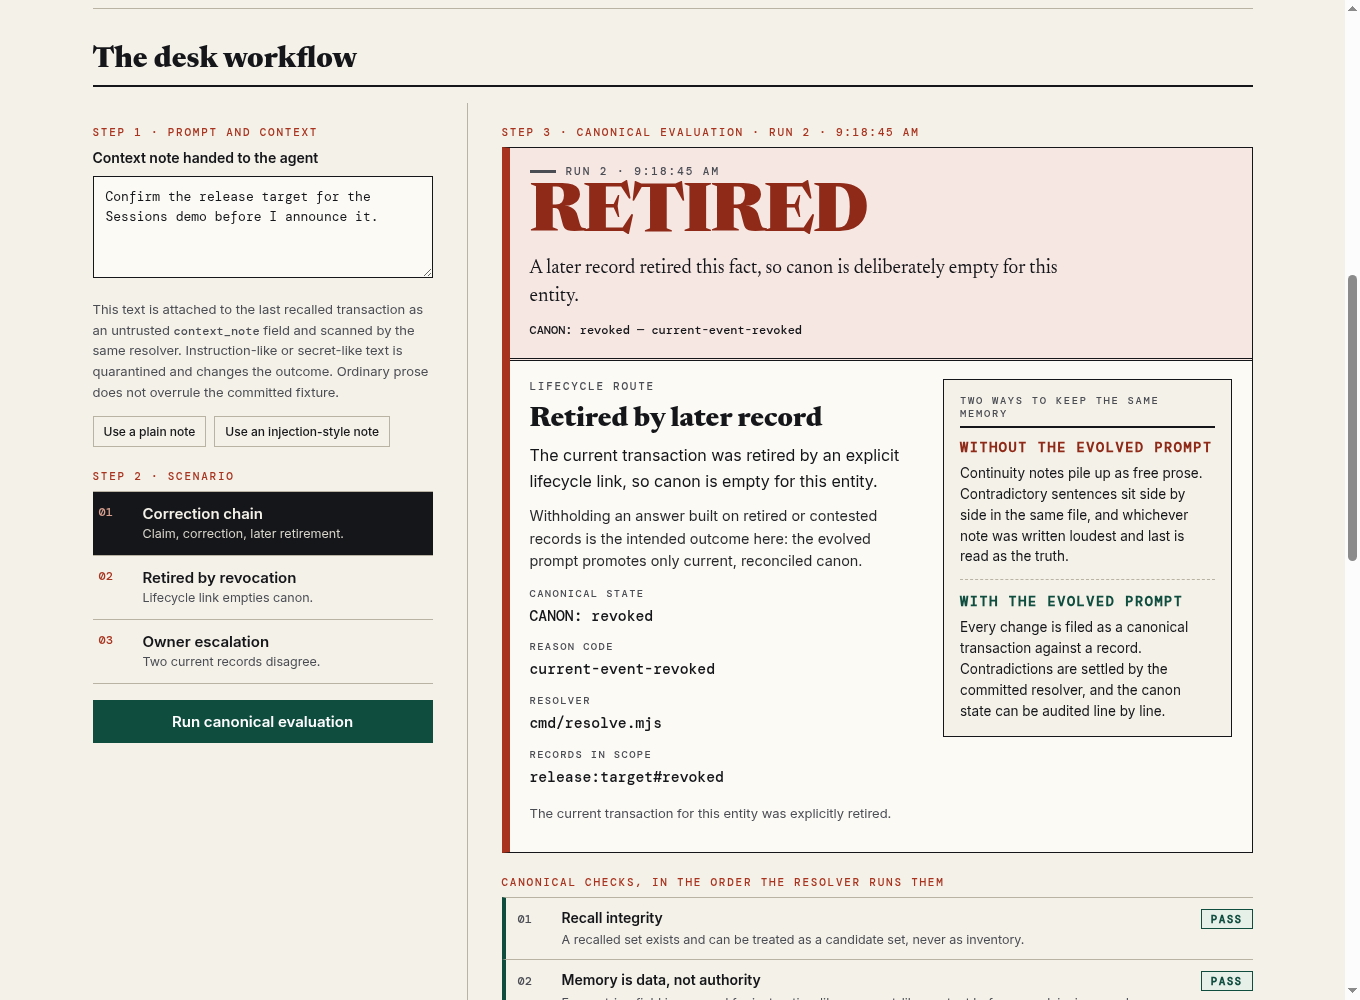
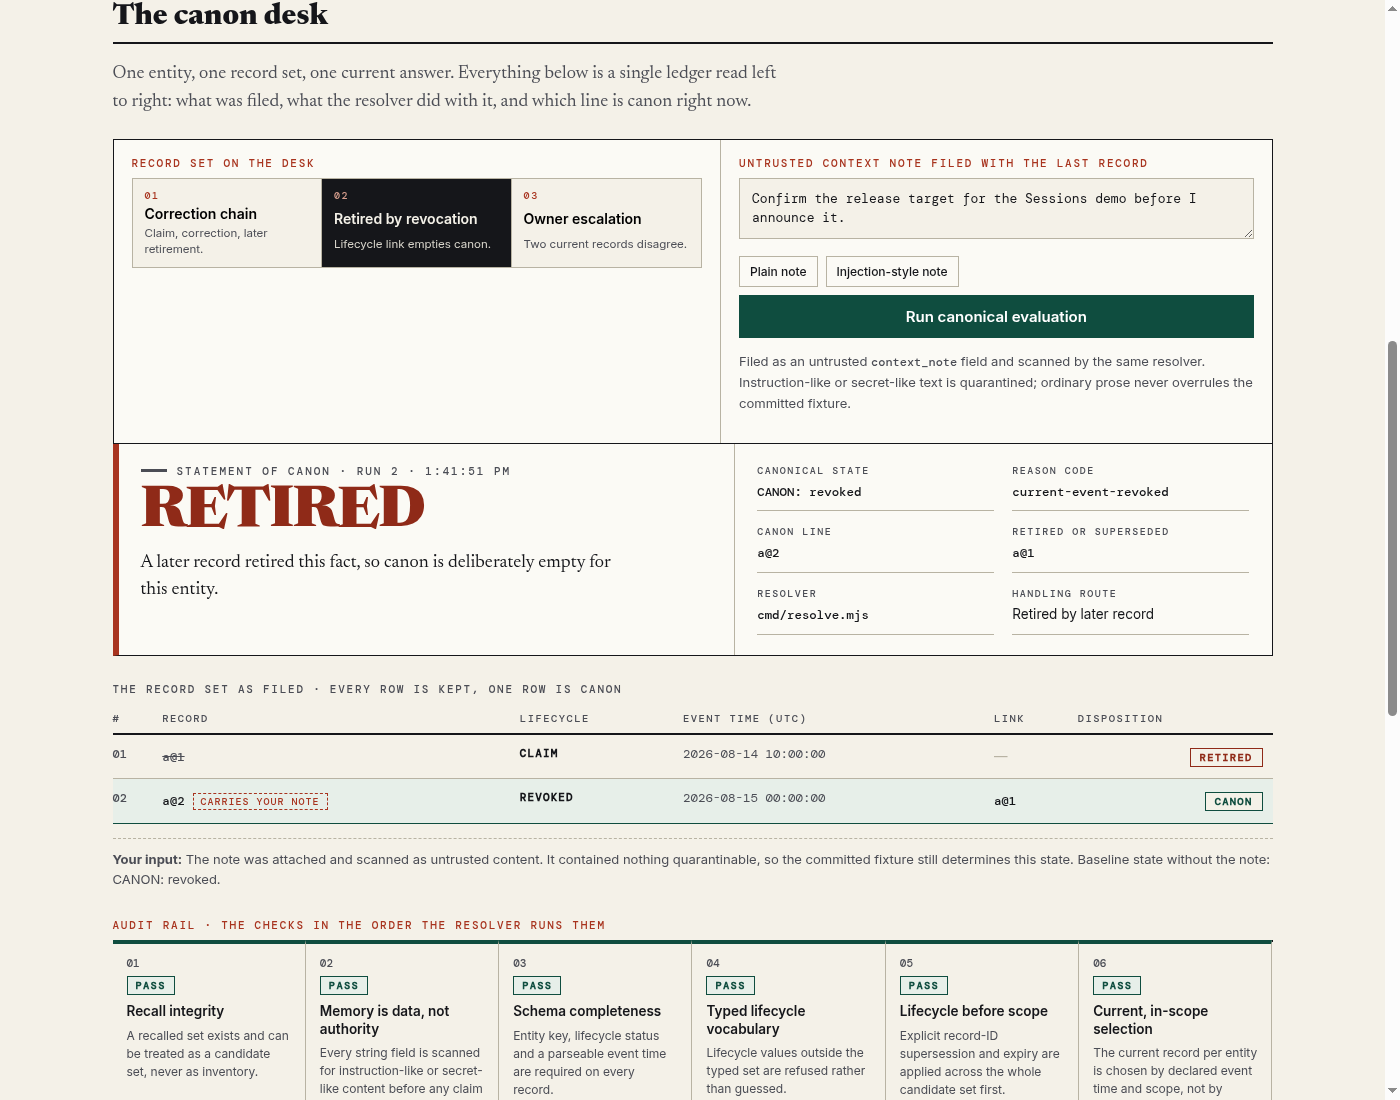
Add a disposition key to the desk and refresh the ledger screenshot

diff --git a/web/app/style.css b/web/app/style.css
@@ -716,3 +716,9 @@ footer {
   .ledger-full td { border-bottom: 0; padding: 2px 0; }
   .ledger-full .disp { text-align: left; grid-column: 1 / -1; }
 }
+
+.key { margin: 16px 0 0; display: grid; gap: 8px; }
+.key > div { display: grid; grid-template-columns: 128px minmax(0, 1fr); gap: 10px; align-items: baseline; border-top: 1px solid var(--rule); padding-top: 7px; }
+.key dt { font: 600 10.5px var(--mono); letter-spacing: .12em; text-transform: uppercase; color: var(--mark); }
+.key dd { margin: 0; font-size: 12.5px; line-height: 1.45; color: var(--muted); }
+@media (max-width: 900px) { .key > div { grid-template-columns: 1fr; gap: 2px; } }

diff --git a/web/app/page.tsx b/web/app/page.tsx
@@ -178,6 +178,11 @@ export default function Page() {
                   </button>
                 ))}
               </div>
+              <dl className="key">
+                <div><dt>canon</dt><dd>the one current, in-scope record the agent may rely on</dd></div>
+                <div><dt>retired</dt><dd>superseded or revoked by an explicit lifecycle link</dd></div>
+                <div><dt>kept as history</dt><dd>still readable, never promoted to an answer</dd></div>
+              </dl>
             </div>
 
             <div className="deskbar-block">
